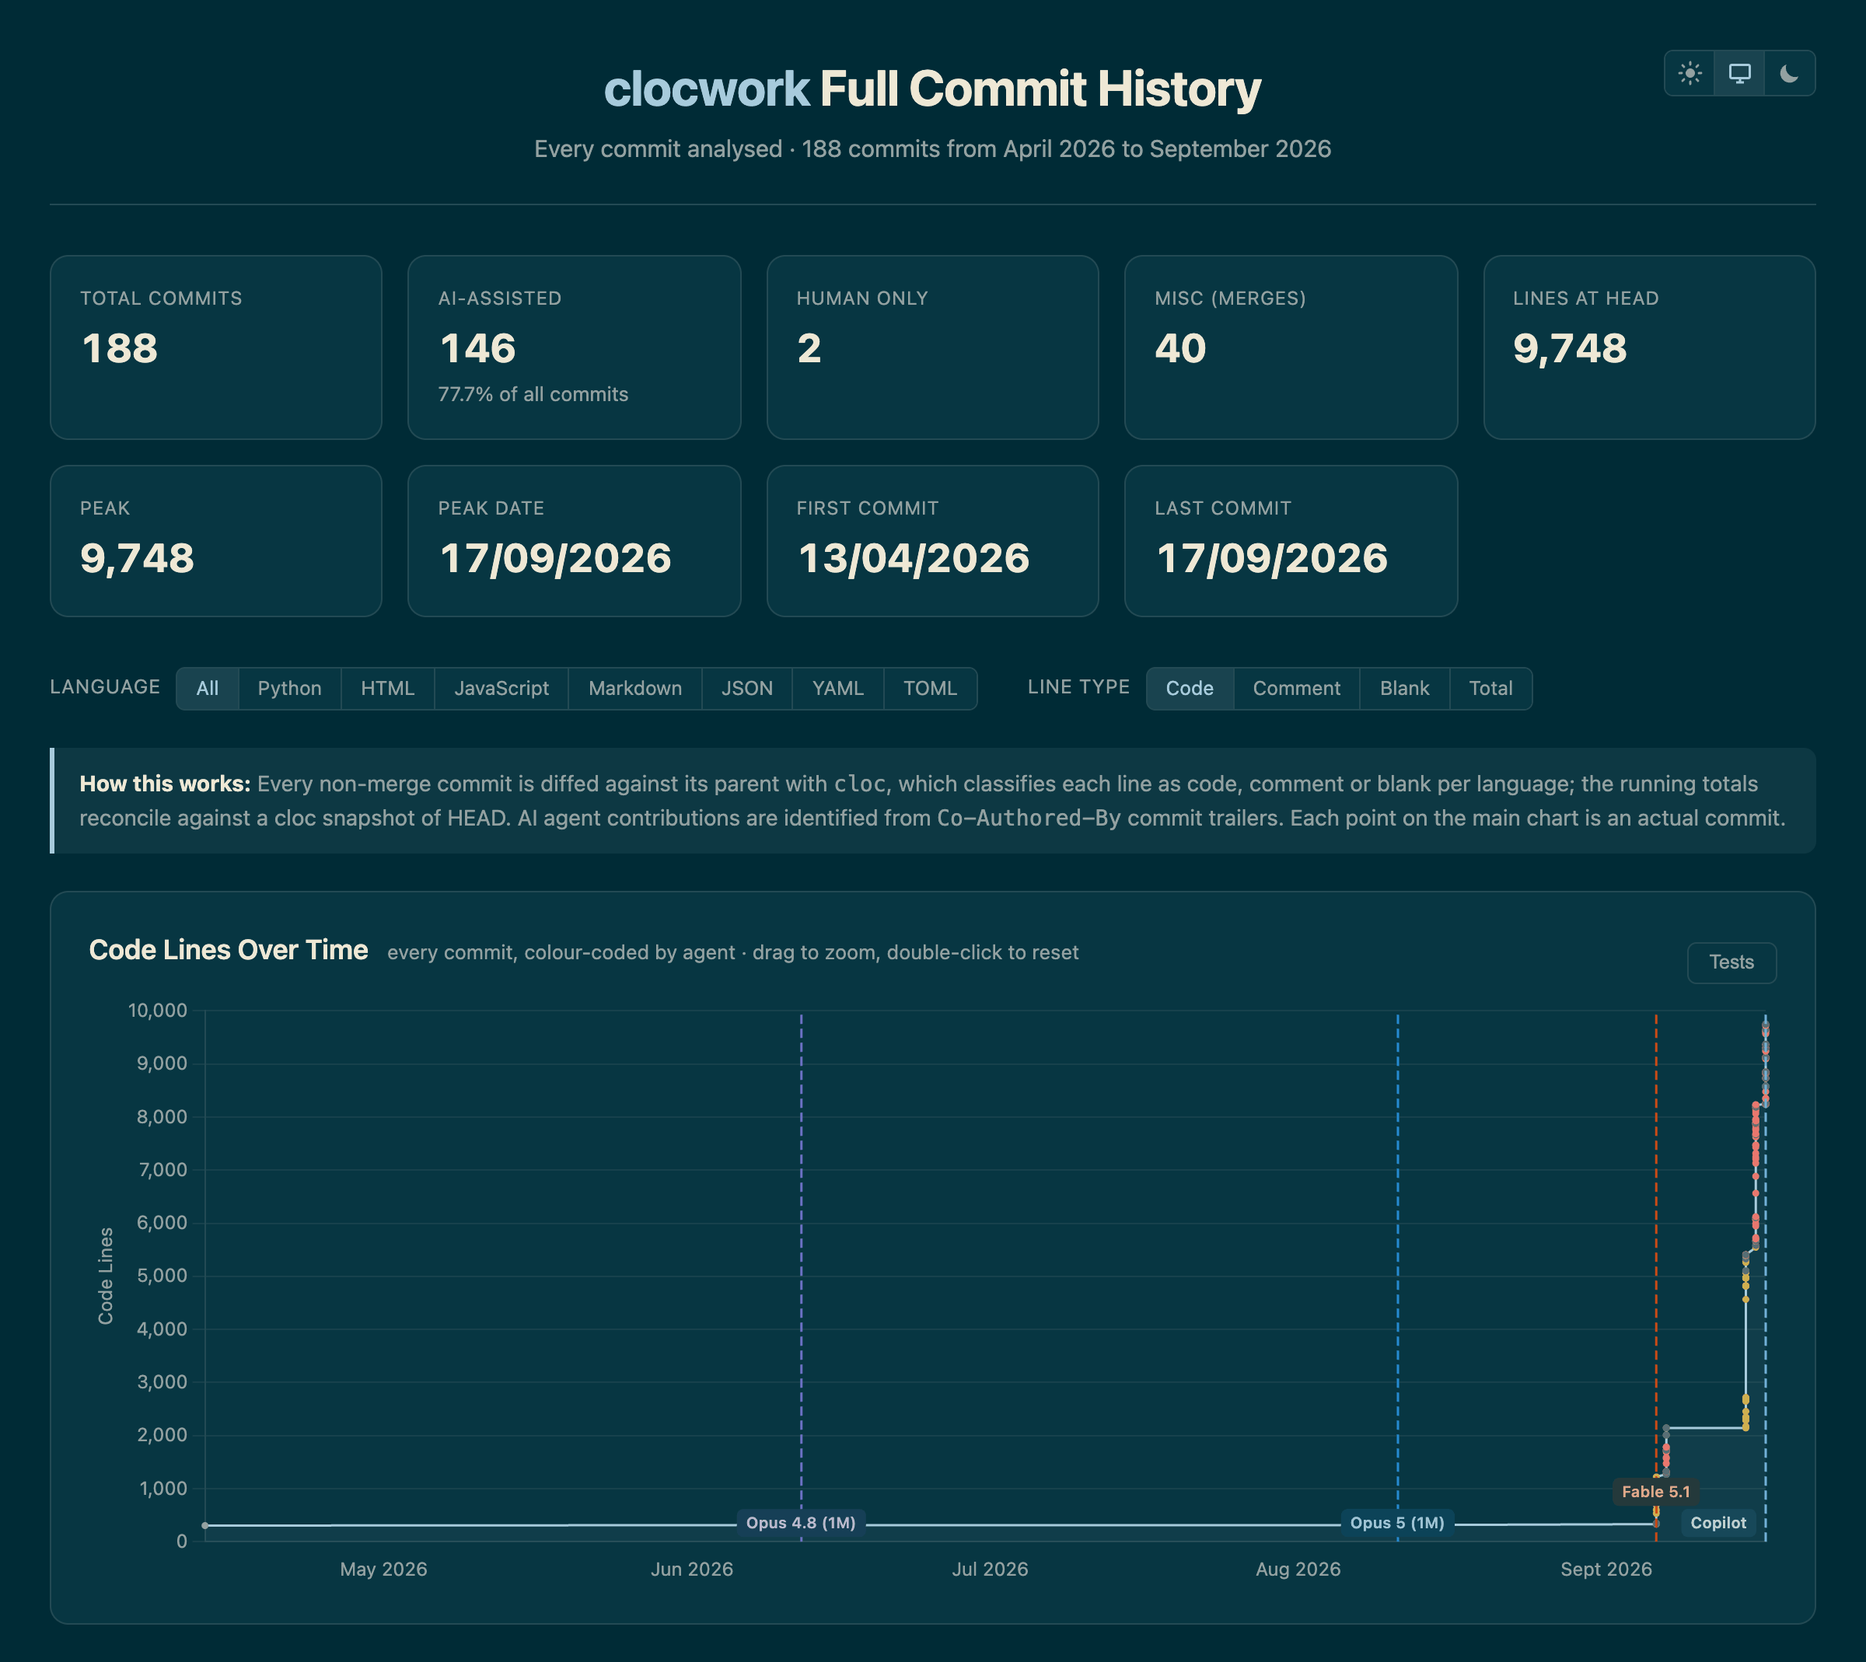
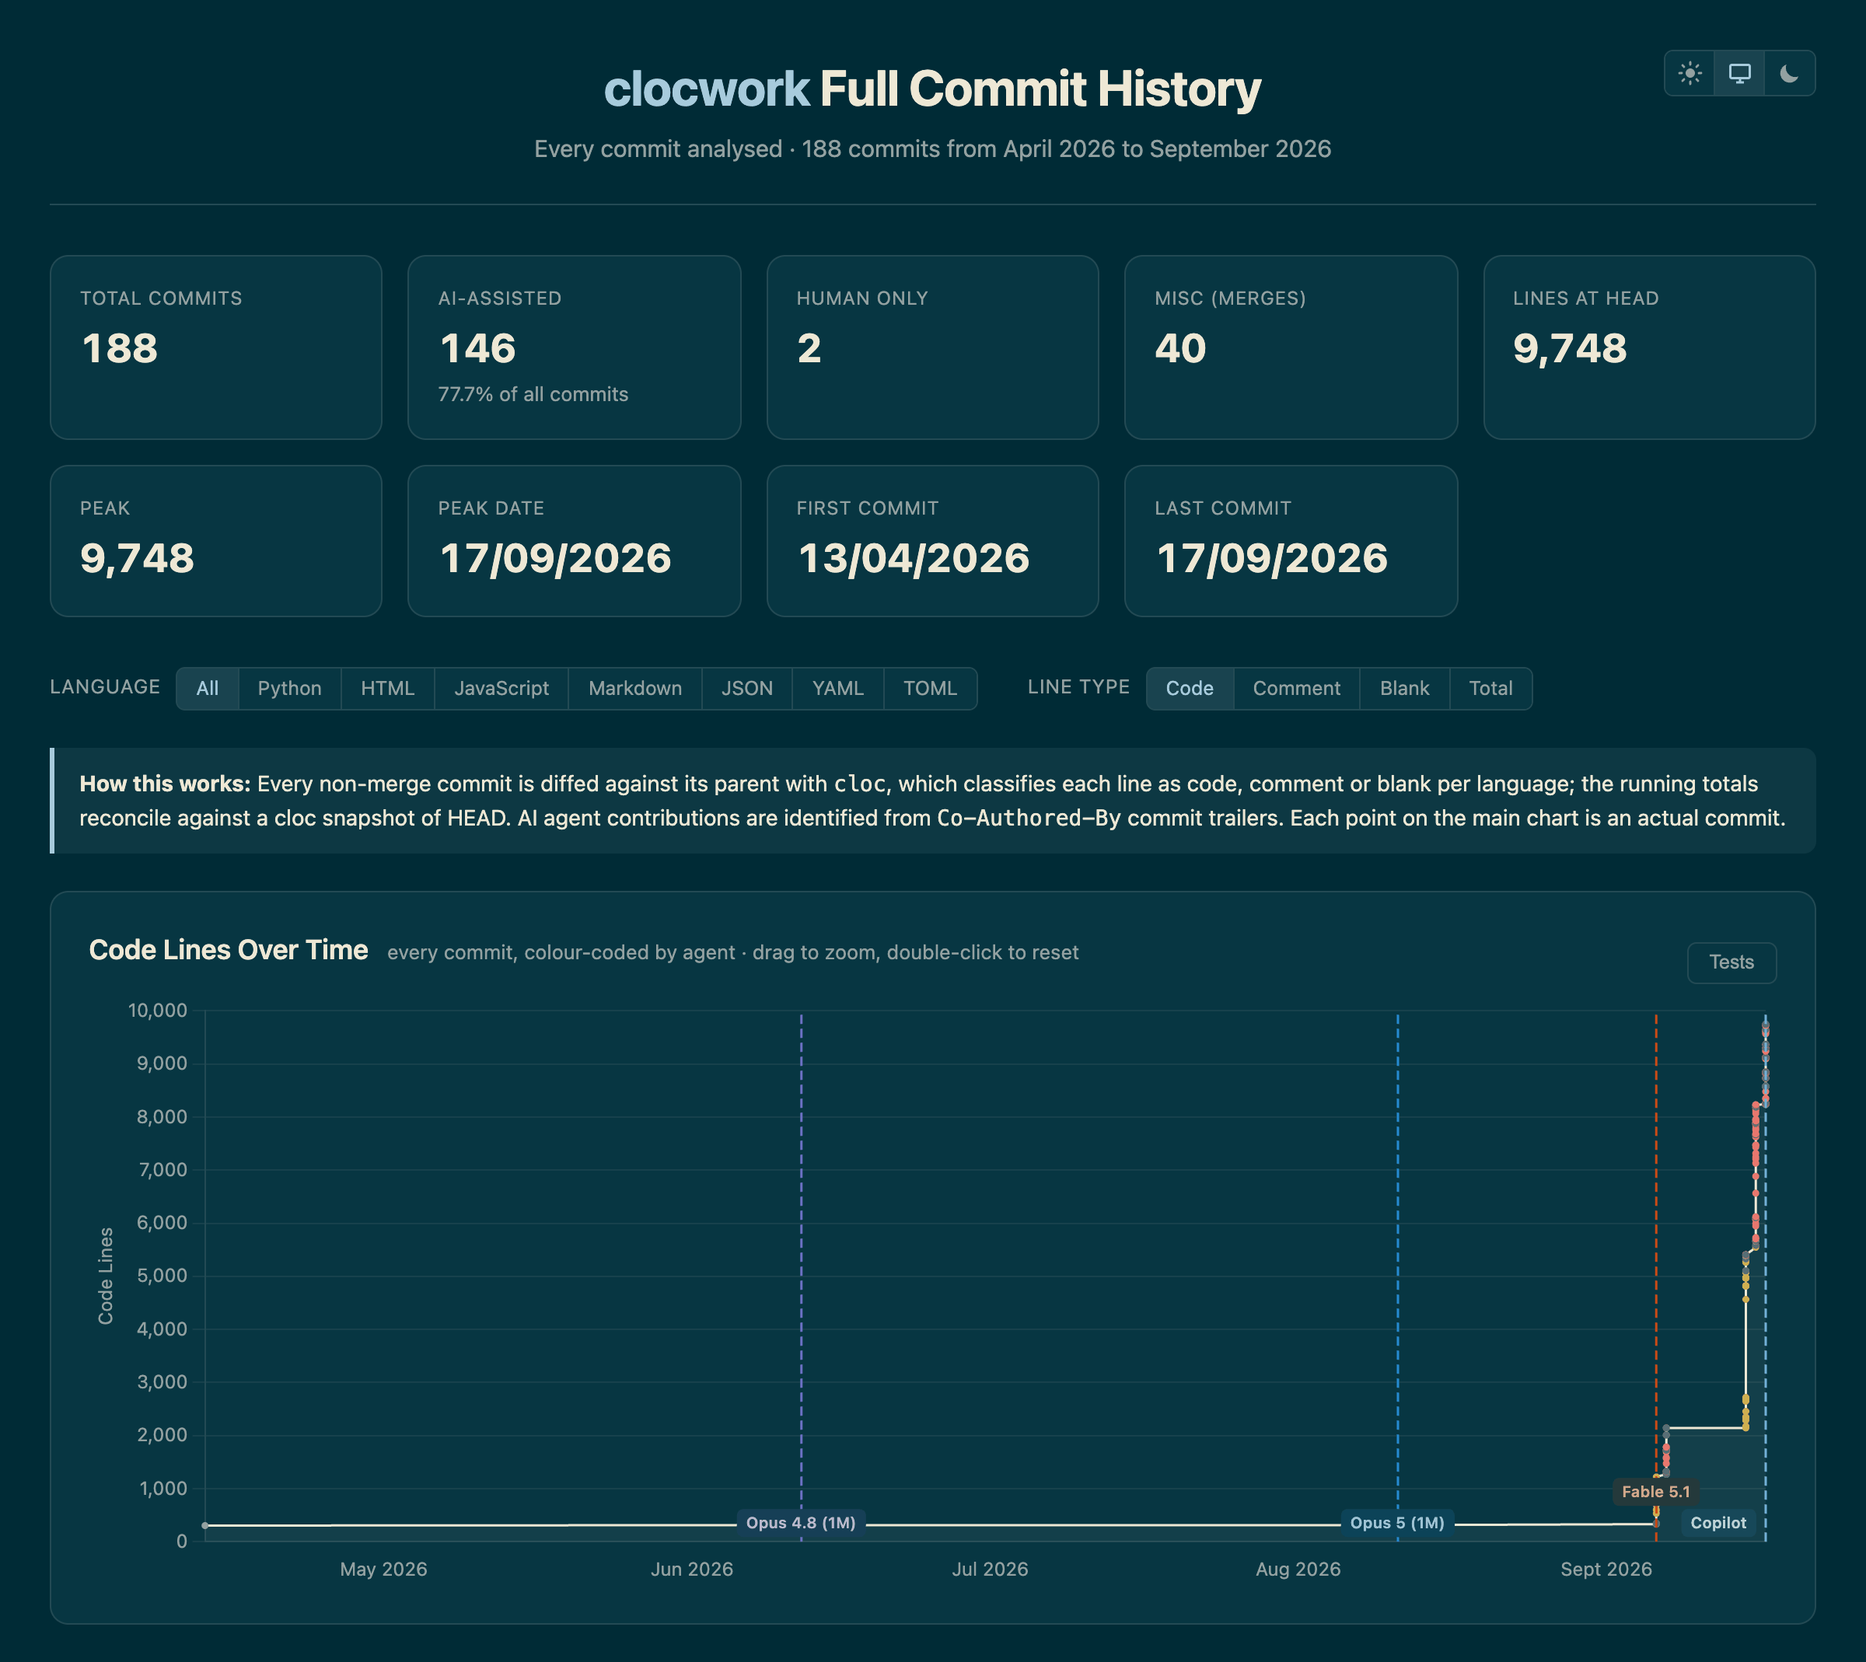
Raise the last text contrasts, and free the main line from the agents
Closes #46.

- The explanatory note is in body text: muted text read 4.12:1 on its
  tint. Hover tints drop to the 15% the selected controls use, the Tests
  toggle keeps its own text colour when hovered, and the dark hover
  colour is 8% rather than 12% toward base01, so a hovered row's muted
  text reads at 4.59:1. Every text pair now reads at 4.5:1 or better.
- Tooltips sit on the page colour: apart from the cards they cover, and
  dark enough for muted text.
- The main chart's line is the text colour, which no agent has, so no
  commit's point hides in it. It was the accent, which Gemini has.
- The daily chart keeps Solarized's own red and green, which the deeper
  text tones read as brown and olive; the bars nothing agent-coloured
  shares. The colours the charts paint at load are set in one place.

Changed region(s): [[0.125, 0.463, 0.9375, 0.4939]]

diff --git a/tests/dashboard/test_theme.js b/tests/dashboard/test_theme.js
@@ -63,6 +63,10 @@ check(checked().join() === 'system' && buttons.map(b => b.tabIndex).join() === '
 check(buttons[1].title === 'Match the system (light now)', 'the system button says what the system is: ' + buttons[1].title);
 
 const [main, daily, agentCum, pie, net, token] = page.charts;
+// As first drawn, before any theme change.
+check(daily.data.datasets[0].borderColor.every(x => x === SOL.green || x === SOL.red)
+      && main.data.datasets[0].borderColor === SOL.base02,
+      'the daily bars open in Solarized red and green, the main line in the text colour');
 const updates = page.charts.map(c => c.updates);
 const before = {
   tooltip: main.options.plugins.tooltip.backgroundColor, grid: main.options.scales.y.grid.color,
@@ -74,9 +78,10 @@ check(attr(page) === 'dark' && page.store[KEY] === 'dark' && checked().join() ==
 check(page.charts.every((c, i) => c.updates > updates[i]), 'every chart is redrawn');
 check(page.root.style['--bg'] === SOL.base03 && page.root.style['--text'] === SOL.base2 && page.root.style['color-scheme'] === 'dark',
       'the page colours and the browser\'s scheme are the dark ones');
-// Tooltips sit on the card colour, which the contrast checks below assume.
-check(before.tooltip === SOL.base3 && page.charts.every(c => c.options.plugins.tooltip.backgroundColor === SOL.base02),
-      'every tooltip sits on the card colour: base3, then base02');
+// Tooltips sit on the page colour, which the contrast checks below assume:
+// apart from the cards they sit over, and dark enough for muted text.
+check(before.tooltip === mix(SOL.base3, SOL.base2, 0.55) && page.charts.every(c => c.options.plugins.tooltip.backgroundColor === SOL.base03),
+      'every tooltip sits on the page colour: 55% to base2, then base03');
 check(main.options.plugins.tooltip.backgroundColor !== before.tooltip && main.options.scales.y.grid.color !== before.grid
       && daily.options.plugins.tooltip.titleColor === SOL.base2 && token.options.scales.y.title.color === SOL.base1,
       'tooltips and axes take the dark colours');
@@ -100,12 +105,16 @@ const rgba = (h, a) => 'rgba(' + rgb(h).join(',') + ',' + a + ')';
 // Dark roles: accent, success and danger are blue, green and red 60% toward base3.
 const dark = { accent: mix(SOL.blue, SOL.base3, 0.6), success: mix(SOL.green, SOL.base3, 0.6), danger: mix(SOL.red, SOL.base3, 0.6) };
 check(net.data.datasets[1].backgroundColor === rgba(dark.danger, 0.4), 'deleted bars take the dark red');
-check(main.data.datasets[0].borderColor === dark.accent && main.data.datasets[1].borderColor === dark.success
-      && main.data.datasets[0].backgroundColor === rgba(dark.accent, 0.05), 'the main chart\'s lines take the dark accent and success colours');
+// The line is the text colour, which no agent has, so no point hides in it.
+const agentTones = Object.values(page.run('return AGENT_COLORS'));
+check(main.data.datasets[0].borderColor === SOL.base2 && main.data.datasets[0].backgroundColor === rgba(SOL.base2, 0.05)
+      && main.data.datasets[1].borderColor === dark.success && agentTones.indexOf('text') < 0,
+      'the main line is the text colour and the tests line the success colour');
+// Daily bars keep Solarized's own red and green, whatever the theme.
 const dayColours = daily.data.datasets[0].borderColor;
-check(dayColours.length > 0 && dayColours.every(x => x === dark.success || x === dark.danger)
-      && daily.data.datasets[0].backgroundColor.every(x => x === rgba(dark.success, 0.6) || x === rgba(dark.danger, 0.6)),
-      'daily bars take the dark success and danger colours');
+check(dayColours.length > 0 && dayColours.every(x => x === SOL.green || x === SOL.red)
+      && daily.data.datasets[0].backgroundColor.every(x => x === rgba(SOL.green, 0.6) || x === rgba(SOL.red, 0.6)),
+      'daily bars take Solarized red and green');
 const tokenSets = token.data.datasets;
 check(tokenSets[1].borderColor === dark.accent && tokenSets[0].borderColor === rgba(SOL.base1, 0.7),
       'token bars: measured in the dark accent, estimated in the dark grey');
@@ -171,8 +180,20 @@ for (const name of ['light', 'dark']) {
       check(r >= 4.5, name + ': ' + role + ' on its tint over ' + under + ' reads at ' + r.toFixed(2) + ':1');
     }
   }
-  // Tooltips sit on the card colour.
-  check(contrast(c['text-muted'], c.surface) >= 4.5 && contrast(c.text, c.surface) >= 4.5, name + ': tooltip text reads at 4.5:1');
+  // Tooltips sit on the page colour.
+  check(contrast(c['text-muted'], c.bg) >= 4.5 && contrast(c.text, c.bg) >= 4.5, name + ': tooltip text reads at 4.5:1');
+  // The "How this works" note: body text on an 8% accent tint, over either background.
+  for (const under of ['bg', 'surface']) {
+    const r = contrast(c.text, mix(c[under], c.accent, 0.08));
+    check(r >= 4.5, name + ': the note reads at ' + r.toFixed(2) + ':1 over ' + under);
+  }
+  // Hover: a row, and a control tinted at 15% with its own text colour.
+  const hovered = contrast(c['text-muted'], c['surface-hover']);
+  check(hovered >= 4.5, name + ': a hovered table row reads at ' + hovered.toFixed(2) + ':1');
+  for (const [role, where] of [['accent', 'bg'], ['accent', 'surface'], ['success', 'surface']]) {
+    const r = contrast(c[role], mix(c[where], c[role], 0.15));
+    check(r >= 4.5, name + ': a hovered ' + role + ' control over ' + where + ' reads at ' + r.toFixed(2) + ':1');
+  }
   // First-appearance labels: 60% text over the line colour's 15% tint.
   const lows = page.run('return ANNOTATION_PALETTE').filter(t => contrast(mix(c[t], c.text, 0.6), mix(c.surface, c[t], 0.15)) < 4.5);
   check(lows.length === 0, name + ': every first-appearance label reads at 4.5:1' + (lows.length ? ': not ' + lows.join(', ') : ''));
@@ -212,6 +233,10 @@ const escapeRe = t => t.replace(/[\\^$.*+?()[\]{}|]/g, '\\$&');
 const rule = sel => (css.match(new RegExp(escapeRe(sel) + '\\s*\\{([^}]*)\\}')) || [])[1] || '';
 check(/border-left:\s*4px solid var\(--agent,/.test(rule('.agent-card')), 'a card\'s border is its agent colour');
 check(/background: color-mix\(in srgb, var\(--agent,/.test(rule('.agent-badge')), 'a badge\'s tint is its agent colour');
+check(/color: var\(--text\)/.test(rule('.timeline-note')), 'the note is in body text, as its contrast check assumes');
+check(!/:hover\s*\{[^}]*color-mix\(in srgb, var\(--accent\) 2[0-9]%/.test(css), 'no hover tint is stronger than the 15% the selected controls use');
+check(/\.toggle-btn:hover \{[^}]*color: var\(--text\)/.test(css) && /\.toggle-btn\.active:hover \{[^}]*color: var\(--success\)/.test(css),
+      'the toggle keeps its own text colour when hovered');
 const fallbackAt = css.search(/@supports not \(color: color-mix\(/);
 check(fallbackAt > 0 && css.slice(fallbackAt).match(/color-mix\(/g).length === 1,
       'browsers without color-mix() get plain fallbacks, after every rule they replace');

diff --git a/src/clocwork/template.html b/src/clocwork/template.html
@@ -110,8 +110,12 @@
         }
 
         .reset-btn:hover {
-            background: color-mix(in srgb, var(--accent) 25%, transparent);
+            background: color-mix(in srgb, var(--accent) 15%, transparent);
         }
+        /* Without these, .reset-btn:hover would tint the toggle while its
+           text stayed muted. */
+        .toggle-btn:hover { background: var(--surface-hover); color: var(--text); }
+        .toggle-btn.active:hover { background: color-mix(in srgb, var(--success) 15%, transparent); color: var(--success); }
 
         .chart-actions { display: flex; gap: 0.5rem; flex-shrink: 0; }
         .toggle-btn { border-color: var(--border); background: var(--surface); color: var(--text-muted); }
@@ -275,7 +279,7 @@
             position: absolute; top: 0; right: -3px; width: 7px; height: 100%;
             cursor: col-resize; user-select: none; z-index: 1;
         }
-        .col-resizer:hover, .col-resizer.dragging { background: color-mix(in srgb, var(--accent) 35%, transparent); }
+        .col-resizer:hover, .col-resizer.dragging { background: color-mix(in srgb, var(--accent) 35%, transparent); }   /* a bar, not text */
         /* Hidden probe used once to measure natural column widths. */
         .all-commits.measure { position: absolute; top: 0; left: 0; visibility: hidden; pointer-events: none; table-layout: auto; width: auto; }
 
@@ -341,7 +345,8 @@
             border-radius: 0 8px 8px 0;
             margin-bottom: 1.5rem;
             font-size: 0.88rem;
-            color: var(--text-muted);
+            /* Body text, not muted: the tint behind it is too light for that. */
+            color: var(--text);
         }
 
         .timeline-note strong { color: var(--text); }
@@ -475,7 +480,7 @@ var THEMES = (function(S) { return {
              text: S.base02, 'text-muted': S.base01, faint: S.base0,
              toward: S.base03, tones: [0.3, 0.5],
              roles: { accent: 'blue-3', success: 'green-3', danger: 'red-3' } },
-    dark:  { bg: S.base03, surface: S.base02, 'surface-hover': mixHex(S.base02, S.base01, 0.12),
+    dark:  { bg: S.base03, surface: S.base02, 'surface-hover': mixHex(S.base02, S.base01, 0.08),
              border: mixHex(S.base02, S.base01, 0.35), grid: mixHex(S.base02, S.base01, 0.2),
              text: S.base2, 'text-muted': S.base1, faint: S.base01,
              toward: S.base3, tones: [0.35, 0.6],
@@ -1143,7 +1148,7 @@ function agentVar(a) { return 'var(--c-' + agentToken(a) + ')'; }
 // The tooltip and axis colours every chart shares; restyle() applies them
 // again when the theme changes.
 function tooltipStyle(o) {
-    o.backgroundColor = themeColour('surface'); o.borderColor = themeColour('border'); o.borderWidth = 1;
+    o.backgroundColor = themeColour('bg'); o.borderColor = themeColour('border'); o.borderWidth = 1;
     o.titleColor = themeColour('text'); o.bodyColor = themeColour('text-muted'); o.padding = 12; o.cornerRadius = 8;
     return o;
 }
@@ -1295,11 +1300,12 @@ function resetMainZoom() {
         pointRadius: 0, pointHoverRadius: 4, borderWidth: 1.5,
         hidden: !SEL.get().tests,
     }];
-    // Each commit's point in its agent's colour; the lines in the accent and
-    // the success colour.
+    // Each commit's point in its agent's colour. The line itself is the text
+    // colour, which no agent has, so no commit's point hides in it; the tests
+    // line is the success colour.
     function paintData() {
         var pointColors = ROWS.map(function(c) { return agentColour(c[4]); });
-        datasets[0].borderColor = themeColour('accent'); datasets[0].backgroundColor = hexToRgba(themeColour('accent'), 0.05);
+        datasets[0].borderColor = themeColour('text'); datasets[0].backgroundColor = hexToRgba(themeColour('text'), 0.05);
         datasets[0].pointBackgroundColor = pointColors; datasets[0].pointBorderColor = pointColors;
         datasets[1].borderColor = themeColour('success'); datasets[1].backgroundColor = hexToRgba(themeColour('success'), 0.05);
     }
@@ -1410,14 +1416,15 @@ function resetMainZoom() {
 // --- Daily Delta Chart ---
 (function() {
     function build() { return SEL.stats().daily.map(function(d) { return { x: d.date, y: d.net }; }); }
+    // Solarized's own red and green: nothing here is agent-coloured, and the
+    // deeper tones the text roles use read as brown and olive.
     function colours(data, up, down) { return data.map(function(d) { return d.y >= 0 ? up : down; }); }
     var data = build();
     var chart = new Chart(document.getElementById('dailyDeltaChart'), {
         type: 'bar',
+        // refresh() below colours the bars, at load and on every change.
         data: { datasets: [{
             label: SEL.linesLabel() + ' Change', data: data,
-            backgroundColor: colours(data, hexToRgba(themeColour('success'), 0.6), hexToRgba(themeColour('danger'), 0.6)),
-            borderColor: colours(data, themeColour('success'), themeColour('danger')),
             borderWidth: 1, borderRadius: 2
         }] },
         options: {
@@ -1449,8 +1456,8 @@ function resetMainZoom() {
         var ds = chart.data.datasets[0];
         ds.label = SEL.linesLabel() + ' Change';
         ds.data = d;
-        ds.backgroundColor = colours(d, hexToRgba(themeColour('success'), 0.6), hexToRgba(themeColour('danger'), 0.6));
-        ds.borderColor = colours(d, themeColour('success'), themeColour('danger'));
+        ds.backgroundColor = colours(d, hexToRgba(themeColour('green'), 0.6), hexToRgba(themeColour('red'), 0.6));
+        ds.borderColor = colours(d, themeColour('green'), themeColour('red'));
         chart.options.scales.y.title.text = SEL.linesLabel() + ' Change';
         chart.update();
         title.textContent = 'Daily ' + SEL.linesLabel() + ' Change';
@@ -1550,9 +1557,10 @@ function resetMainZoom() {
     function colours() { return names.map(function(a) { return agentColour(a) + 'aa'; }); }
     var chart = new Chart(document.getElementById('agentNetChart'), {
         type: 'bar',
+        // refresh() below colours the bars, at load and on every change.
         data: { labels: names, datasets: [
-            { label: 'Added', data: added(), backgroundColor: colours(), borderRadius: 4 },
-            { label: 'Deleted', data: removed(), backgroundColor: hexToRgba(themeColour('danger'), 0.4), borderRadius: 4 }
+            { label: 'Added', data: added(), borderRadius: 4 },
+            { label: 'Deleted', data: removed(), borderRadius: 4 }
         ] },
         options: {
             responsive: true, maintainAspectRatio: true,

diff --git a/CHANGELOG.md b/CHANGELOG.md
@@ -10,15 +10,17 @@ All notable changes to clocwork are recorded here. The format follows
 
 - The dashboard has a light and a dark theme, Solarized Light and Solarized
   Dark. A switch at the top right picks light, dark or the system's setting,
-  which is the default; the browser keeps the choice. Text on the page and on
-  cards, agent names, first-appearance labels, tooltips and selected controls
-  read at 4.5:1 (WCAG AA) or better in both themes.
+  which is the default; the browser keeps the choice. Text reads at 4.5:1
+  (WCAG AA) or better in both themes wherever it sits: on the page, on cards,
+  in agent names and first-appearance labels, in tooltips and the explanatory
+  note, and on selected or hovered controls.
 
 ### Changed
 
 - The dashboard's colours are Solarized's, in both themes, so agents,
   first-appearance lines and token sources have new hues. An agent's table
-  badge now always takes that agent's chart colour.
+  badge now always takes that agent's chart colour. The main chart's line is
+  the text colour, which no agent has, so no commit's point hides in it.
 
 - The HEAD snapshot counts every copy of an identical file, as the history
   always has. A repository that keeps copies of a file sees its lines at
